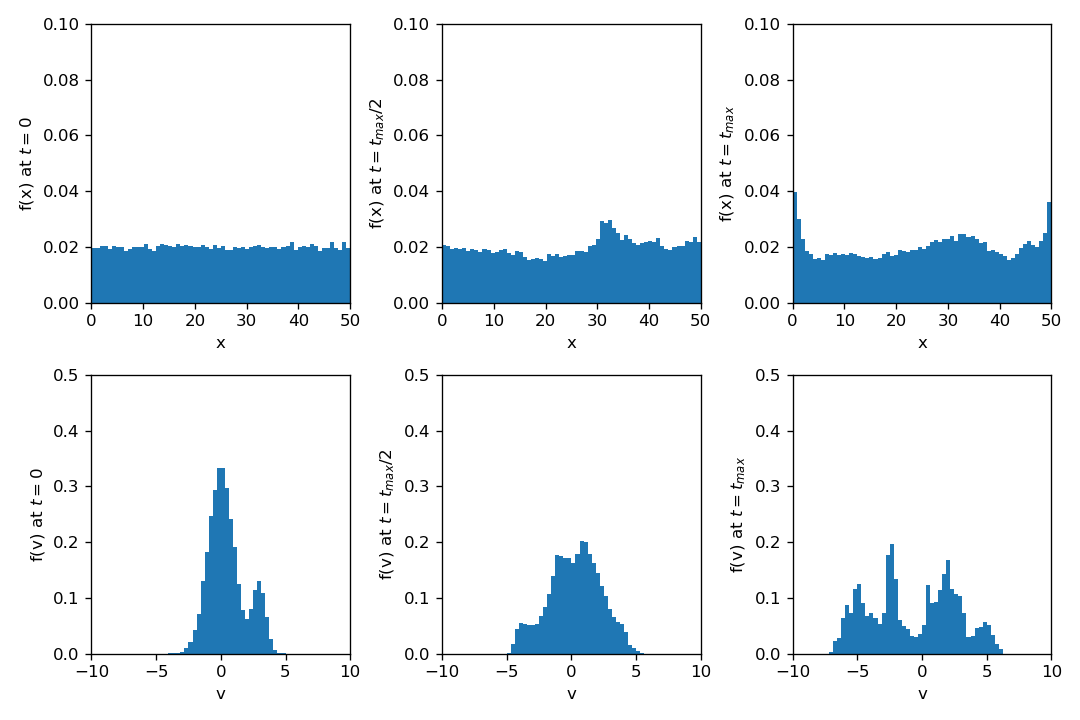
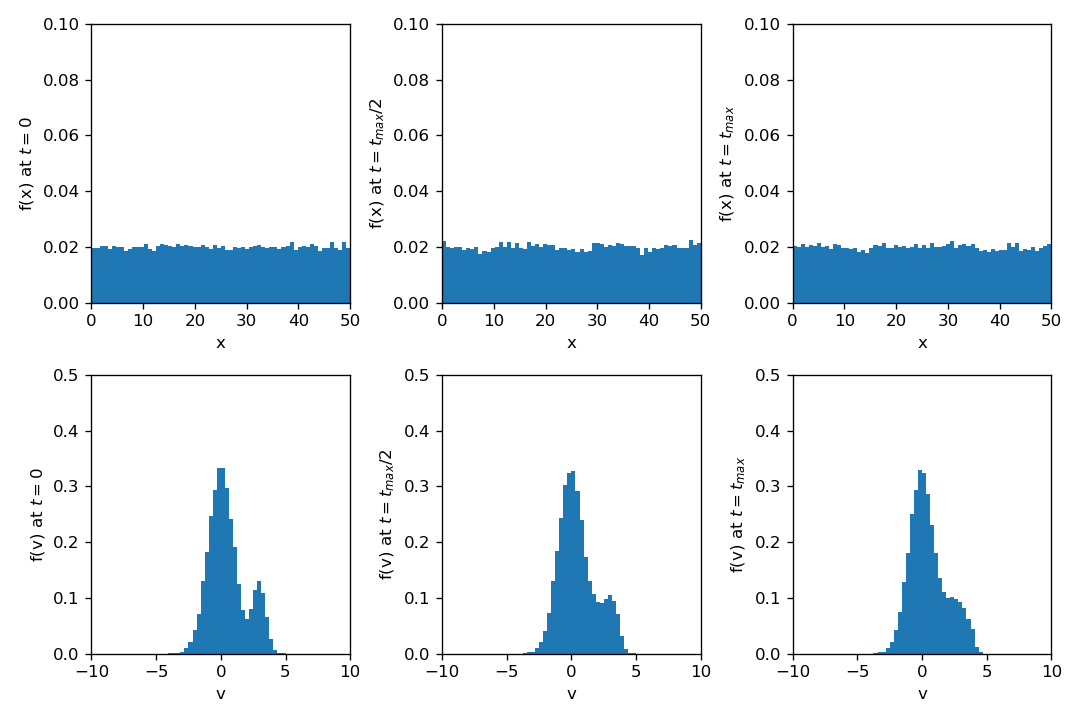
update bump_on_tail.py: Gauss elimination with differeng params gamma to be converged

diff --git a/src/solve.py b/src/solve.py
@@ -1,13 +1,31 @@
 import numpy as np
-from typing import Union
+from typing import Union, Optional
 from numba import jit
 
-@jit(nopython=True)
-def Gaussian_Elimination_TriDiagonal(A_origin : np.ndarray, B_origin : np.ndarray):
-    A = np.copy(A_origin)
-    B = np.copy(B_origin).reshape(-1)
+def Jacobi(A:np.ndarray, B:np.ndarray, x0:Optional[np.ndarray] = None, w:float=2/3, n_epoch:int = 16, eps:float = 1e-8):
+    N = A.shape[0]
+    x = np.zeros(N, dtype = float) if x0 is None else x0.copy().reshape(-1) 
     
-    m,n = A.shape[0], A.shape[1]
+    D = A.diagonal()
+
+    for k in range(n_epoch):
+        
+        res = B - A@x
+        x_new = x + w * res / D
+        
+        if np.linalg.norm(res) / N < eps:
+            break
+        
+        x = x_new
+
+    return x_new
+
+@jit(nopython=True)
+def Gaussian_Elimination_TriDiagonal(A_origin:np.ndarray, B_origin:np.ndarray):
+    A = A_origin.copy()
+    B = B_origin.copy().reshape(-1)
+    
+    n = A.shape[0]
             
     X = np.zeros_like(B)
     
@@ -26,24 +44,30 @@ def Gaussian_Elimination_TriDiagonal(A_origin : np.ndarray, B_origin : np.ndarra
 
 @jit(nopython=True)
 def Gaussian_Elimination_Improved(A: np.ndarray, B: np.ndarray, gamma:float = 5.0):
-    A_new = np.copy(A)
+    
+    N = A.shape[0]
+
+    if A.shape[0] != A.shape[1] or B.shape[0] != N:
+        raise ValueError("Matrix A must be square and B must have compatible dimensions.")
+
+    A_new = A.copy()
     A_new[0,0] -= gamma
     A_new[-1,-1] -= A[0,-1] * A[-1,0] / gamma
-    A_new[-1,0] = 0
-    A_new[0,-1] = 0
+    A_new[-1,0] = 0.0
+    A_new[0,-1] = 0.0
 
-    u = np.zeros((A.shape[1],1))
-    u[0,0] = gamma
-    u[-1,0] = A[-1,0]
+    u = np.zeros(N, dtype = float)
+    u[0] = gamma
+    u[-1] = A[-1,0]
 
-    v = np.zeros((A.shape[1],1))
-    v[0,0] = 1
-    v[-1,0] = A[0,-1] / gamma
+    v = np.zeros(N, dtype = float)
+    v[0] = 1
+    v[-1] = A[0,-1] / gamma
 
-    x1 = Gaussian_Elimination_TriDiagonal(A_new, B)
+    x = Gaussian_Elimination_TriDiagonal(A_new, B)
     q = Gaussian_Elimination_TriDiagonal(A_new, u)
-
-    x = x1 - q * np.dot(v.reshape(1,-1),x1.reshape(-1,1)) / (1 + np.dot(v.reshape(1,-1),q.reshape(-1,1)))
+    
+    x -= q * np.dot(v,x) / (1 + np.dot(v,q))
     return x
 
 @jit(nopython=True)

diff --git a/src/PIC.py b/src/PIC.py
@@ -3,7 +3,7 @@ import scipy as sp
 from tqdm.auto import tqdm
 from typing import Literal, Optional
 from src.util import compute_hamiltonian
-from src.solve import Gaussian_Elimination_Improved, SOR
+from src.solve import Gaussian_Elimination_Improved, SOR, Jacobi
 from src.integration import explicit_midpoint, leapfrog, verlet, implicit_midpoint
 from src.interpolate import CIC, TSC
 from src.dist import BasicDistribution
@@ -103,7 +103,7 @@ class PIC:
 
             # Initial condition
             self.v *= (1 + self.A * np.sin(2 * np.pi * self.n_mode * self.x / self.L))  # add perturbation
-            
+
         # check CFL condition for stability
         if self.dt > 2 / np.sqrt(self.N / self.L):
             self.dt = 2 / np.sqrt(self.N / self.L)
@@ -197,6 +197,7 @@ class PIC:
             n, w_l, w_m, w_r, idx_l, idx_m, idx_r = self.compute_density(x,dx,N,N_mesh,n0,L,True)
 
         phi_mesh = self.linear_solve(self.laplacian, n - n0, self.phi_mesh, self.gamma).reshape(-1,1)
+
         E_mesh = (-1) * np.matmul(self.grad, phi_mesh)
 
         if self.interpol == "CIC":
@@ -257,10 +258,11 @@ class PIC:
 
         if x_ref is None and self.solver == "SOR":
             x = sp.linalg.solve(A, B, assume_a="gen")
-
+            
         else:
             if self.solver == "SOR":
-                x = SOR(A, B, x_ref, 1.2, 50, 1e-8)
+                x = Jacobi(A, B, x_ref, w=2/3, n_epoch=128, eps=1e-10)
+                # x = SOR(A, B, x_ref, 2/3, 128, 1e-8)
 
             elif self.solver == "Gauss":
                 x = Gaussian_Elimination_Improved(A, B, gamma)
@@ -302,9 +304,9 @@ class PIC:
             E_list.append(E)
             KE_list.append(KE)
             PE_list.append(PE)
-            
+
         print("# Simputation process end")
-        
+
         qs = np.concatenate(pos_list, axis = 1)
         ps = np.concatenate(vel_list, axis = 1)
         snapshot = np.concatenate([qs, ps], axis=0)
@@ -312,5 +314,5 @@ class PIC:
         E = np.array(E_list)
         KE = np.array(KE_list)
         PE = np.array(PE_list)
-        
+
         return snapshot, E, KE, PE

diff --git a/pic_1d_bump_on_tail.py b/pic_1d_bump_on_tail.py
@@ -16,14 +16,14 @@ def parsing():
     parser.add_argument("--num_particle", type = int, default = 40000)
     parser.add_argument("--num_mesh", type = int, default = 1000)
     parser.add_argument("--method", type = str, default = "leapfrog", choices=["midpoint","leapfrog", "verlet", "implicit"])
-    parser.add_argument("--solver", type=str, default="SOR", choices=["SOR", "Gauss"])
+    parser.add_argument("--solver", type=str, default="Gauss", choices=["SOR", "Gauss"])
     parser.add_argument("--interpol", type = str, default = "CIC", choices=["CIC", "TSC"])
     parser.add_argument("--t_min", type = float, default = 0)
     parser.add_argument("--t_max", type = float, default = 50.0)
     parser.add_argument("--dt", type = float, default = 0.05)
     parser.add_argument("--L", type = float, default = 50)
     parser.add_argument("--n0", type = float, default = 1.0)
-    parser.add_argument("--gamma", type = float, default = 1.0)
+    parser.add_argument("--gamma", type = float, default = 5.0)
     parser.add_argument("--A", type=float, default=0.02)
     parser.add_argument("--n_mode", type=int, default=5)
     parser.add_argument("--a", type=float, default=0.2)
